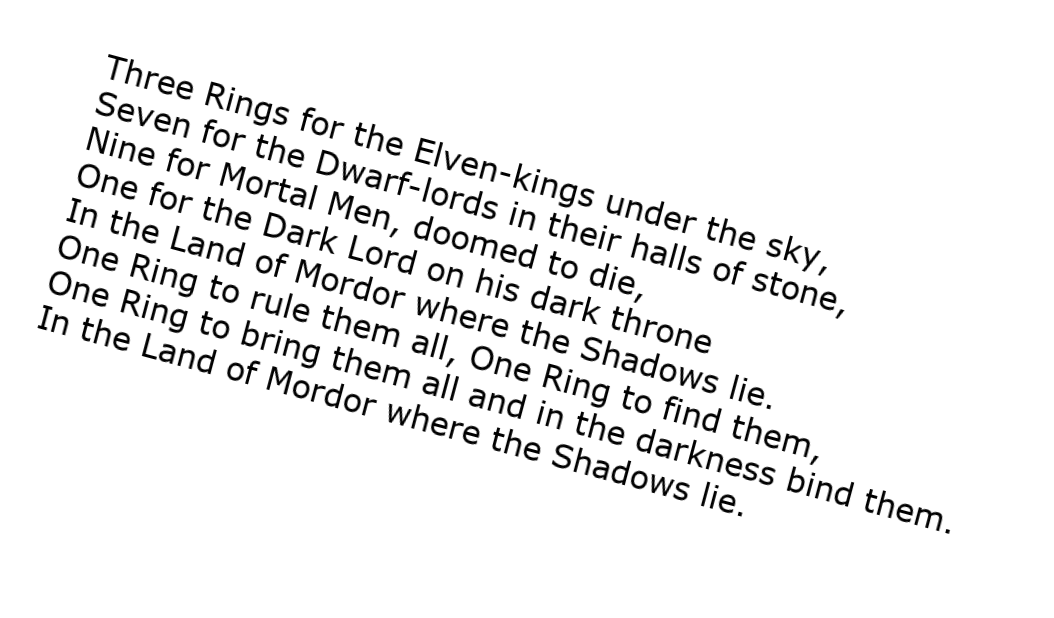
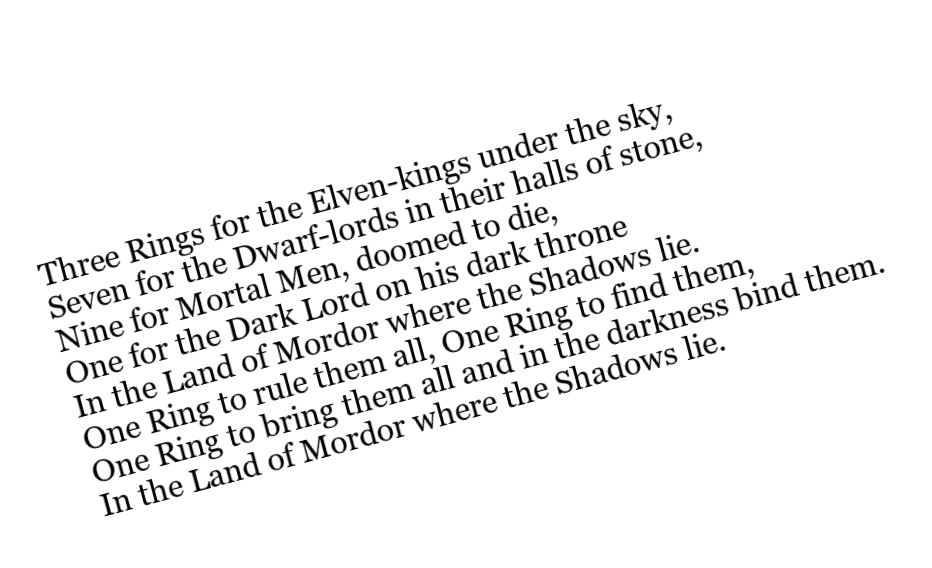
added remarks to source code

Changed region(s): [[0.0311, 0.0898, 0.9646, 0.8979]]

diff --git a/lab9/ex2/ocr.py b/lab9/ex2/ocr.py
@@ -205,16 +205,17 @@ def run_with_stats(text_filename, fontname, angle, peek):
 
 if __name__ == "__main__":
     """
-        To run from command line pass 
+        To run from commandline pass 
             0 - args, test all fonts on a preapred file.
-            2+ - 
+            1+ - 
                 1 - textfile located in resources/texts/ (pass a name, omit .txt)
                 2 - fontname (check utils.py)
-                3 - angle (small angles are supported: [-45, 45])
+                3 - angle (small angles are supported: [-45, 45]) 
+                    (Note that the result might be flipped in the wrong direction depending on width to height ratio)
                 4 - peek (boolean) indicating whether to show images in a popup 
 
             Example call:
-                python ocr.py lotr verdana 15 True
+                python ocr.py lotr georgia 15 True
     """
     args_num = len(sys.argv)
     if args_num < 3:
@@ -224,7 +225,10 @@ if __name__ == "__main__":
             run_with_stats('lotr', fontname, 0, False)
     else:
         text_filename = sys.argv[1]
-        fontname = sys.argv[2]
+
+        fontname = 'georgia'
+        if args_num > 2:
+            fontname = sys.argv[2]
         angle = 0
         if args_num > 3:
             angle = int(sys.argv[3])
